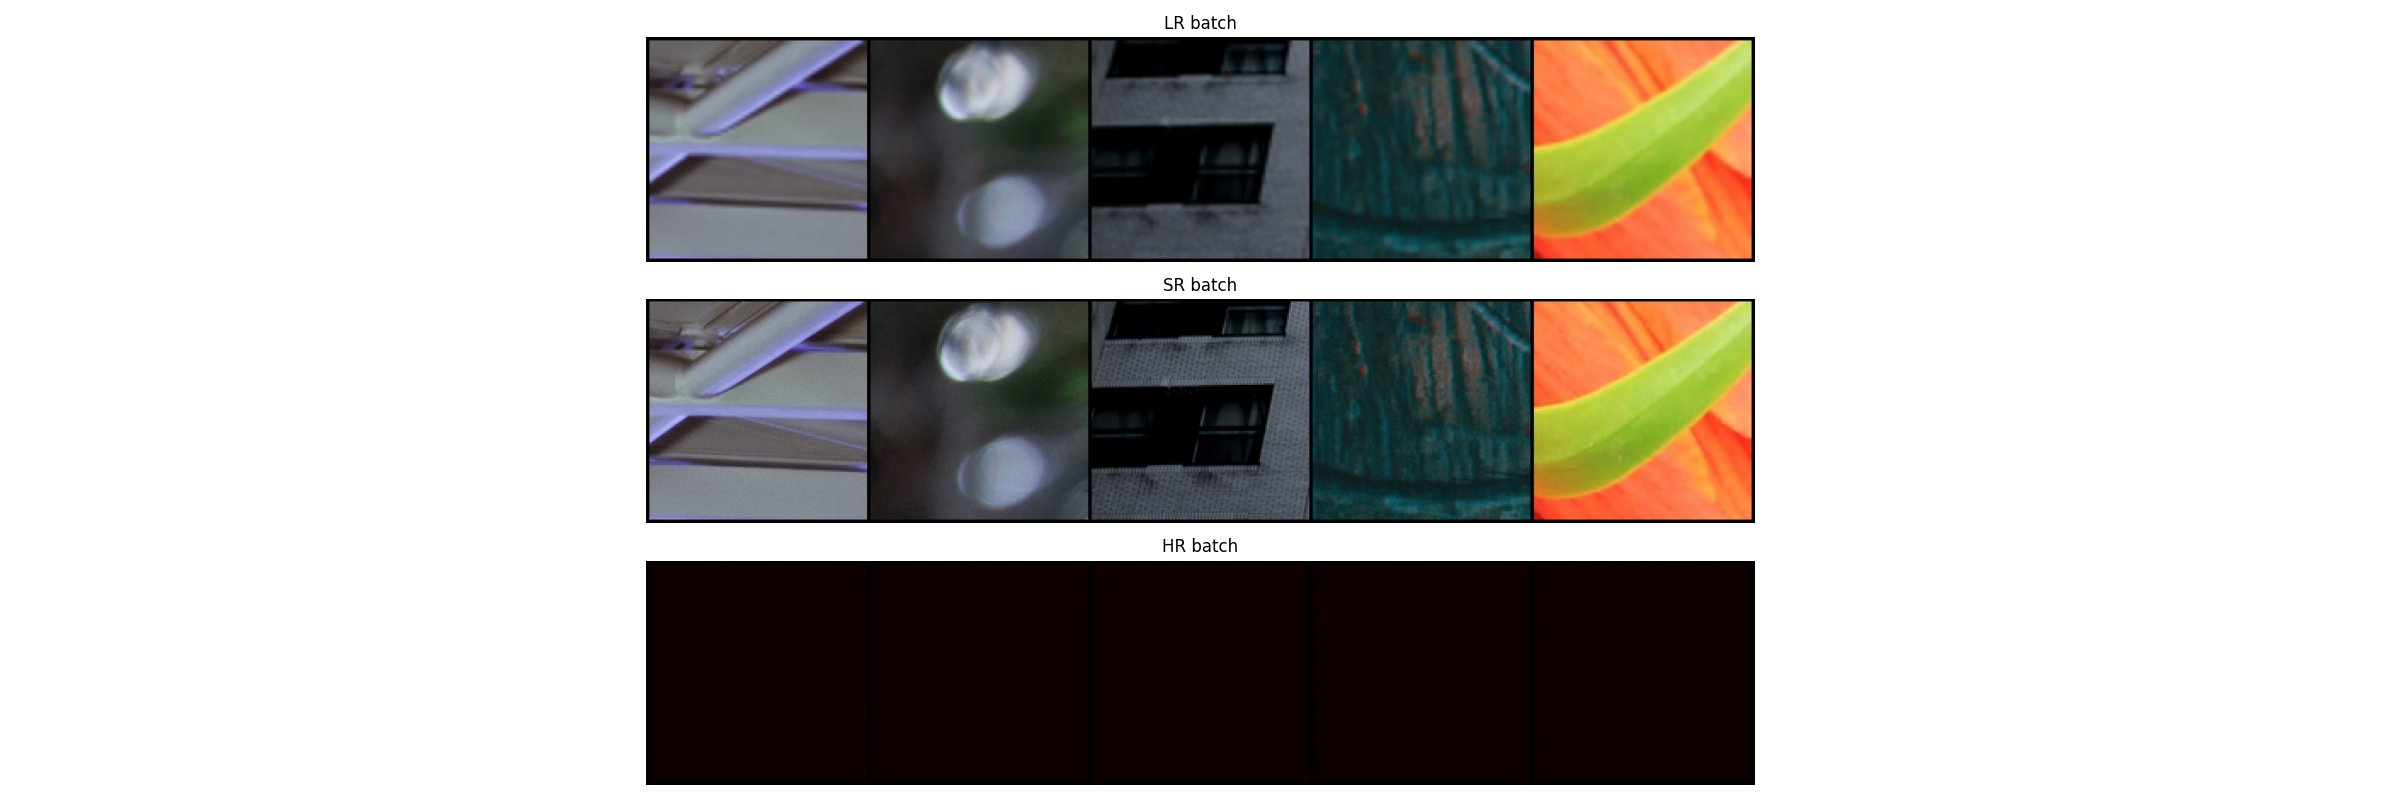
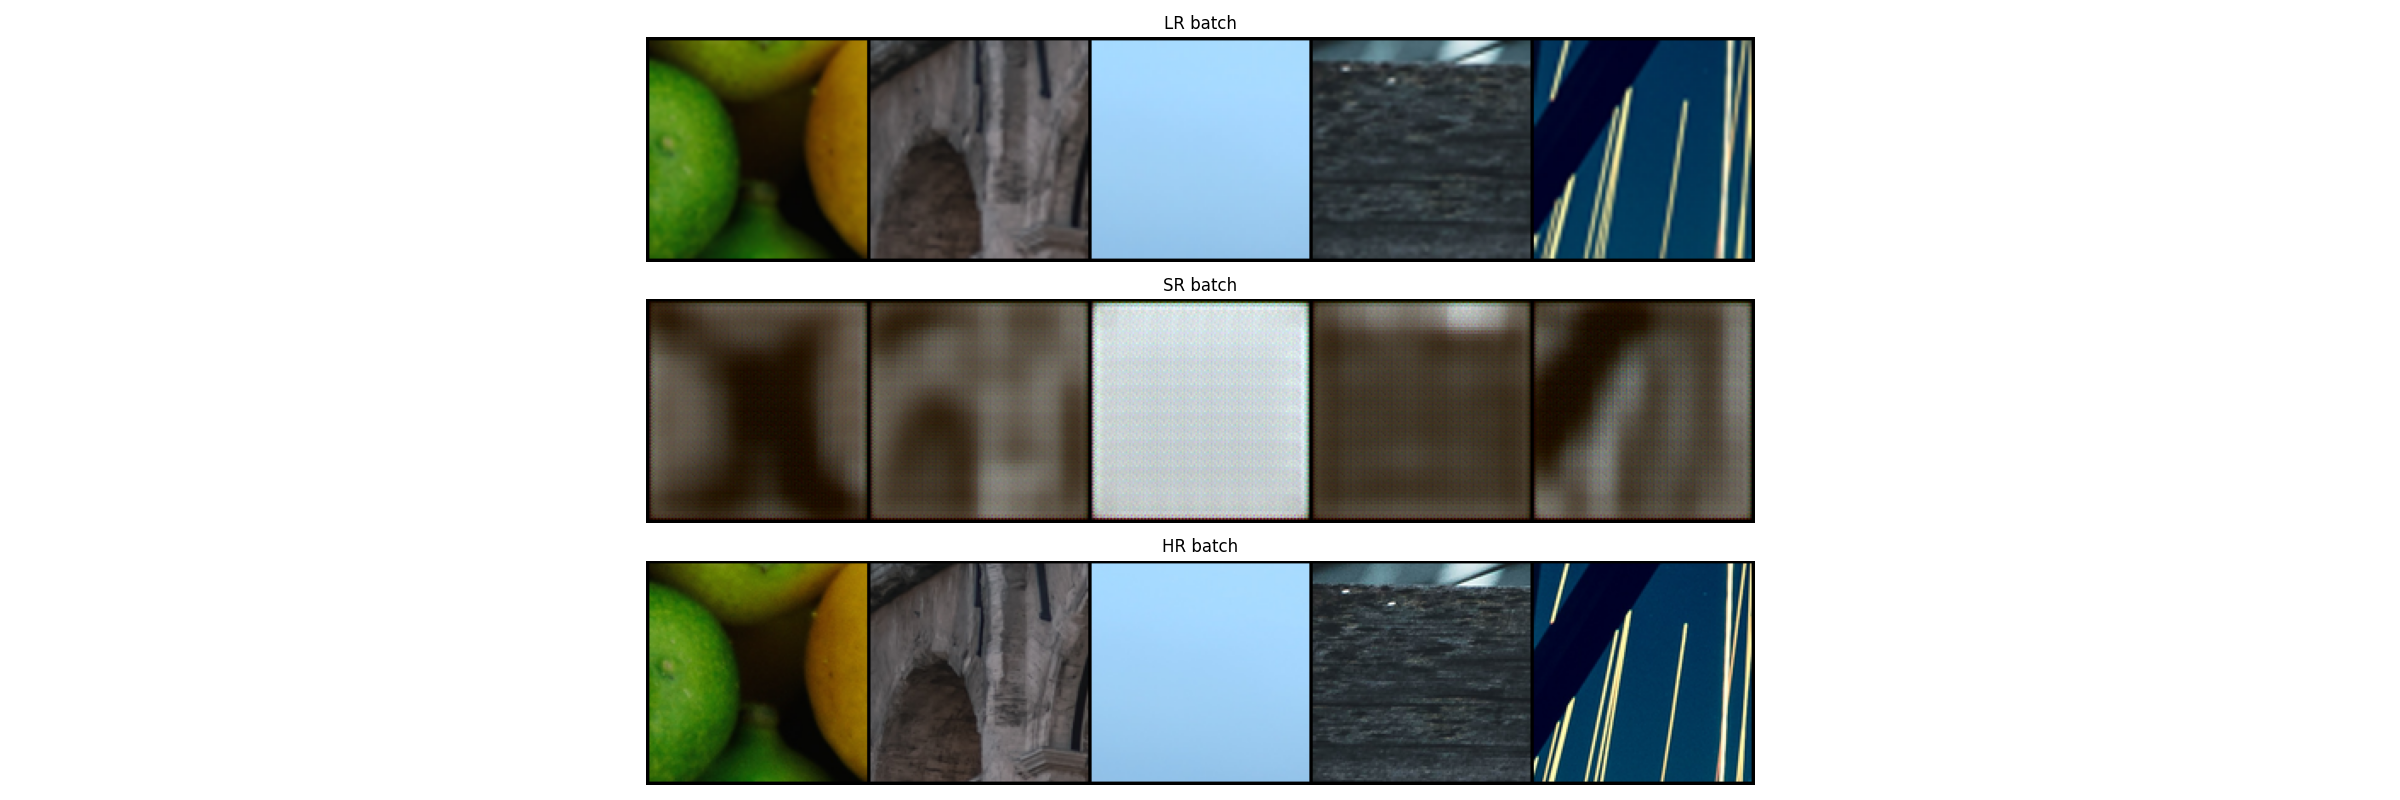
DIV2K trainnig works on HPC

diff --git a/main.py b/main.py
@@ -30,7 +30,6 @@ args = parser.parse_args()
 # psnr_metric = PeakSignalNoiseRatio(data_range=1.0).to(device)
 
 config_path = f"configurations/{args.relative_path_to_config}"
-# config_path = "/rg/shocher_prj/porat.hai/SR_IGN_Project/" +  config_path # only for HPC
 
 register_yaml_constructors()
 print("-"*80)
@@ -47,7 +46,6 @@ print(f"Using {constants.device} device.")
 print("-"*80)
 
 
-# wandb.login() # for local PC
 wandb.login(key=constants.wandb_key) # for HPC
 
 wandb.init(
@@ -114,10 +112,9 @@ n = 5
 LR_batch, HR_batch = next(iter(test_loader))
 LR_batch = LR_batch[:n]
 HR_batch = HR_batch[:n]
+
 with torch.no_grad():
     SR_batch = model(LR_batch.to(constants.device))
-
-
 
 
 show_results(LR_batch, SR_batch, HR_batch, save_path="results.png")
@@ -126,7 +123,7 @@ wandb.log({
     "LR": [wandb.Image(img, caption="LR Images") 
                    for img in LR_batch.cpu()],
     "SR": [wandb.Image(img, caption="SR Images") 
-    for img in SR_batch.cpu()],
+                    for img in SR_batch.cpu()],
     "HR": [wandb.Image(img, caption="HR Images") 
                    for img in HR_batch.cpu()]
 })

diff --git a/utils/visualize.py b/utils/visualize.py
@@ -12,15 +12,17 @@ def show_results(LR_images, SR_images, HR_images, save_path):
     n = len(LR_images)
 
     lr_grid = vutils.make_grid(LR_images, nrow=n)
-    hr_grid = vutils.make_grid(SR_images, nrow=n)
-    sr_grid = vutils.make_grid(HR_images, nrow=n)
+    sr_grid = vutils.make_grid(SR_images, nrow=n)
+    hr_grid = vutils.make_grid(HR_images, nrow=n)
 
     plt.figure(figsize=(24, 8))
 
     plt.subplot(3, 1, 1)
     show(lr_grid, "LR batch")
+
     plt.subplot(3, 1, 2)
     show(sr_grid, "SR batch")
+
     plt.subplot(3, 1, 3)
     show(hr_grid, "HR batch")
 
